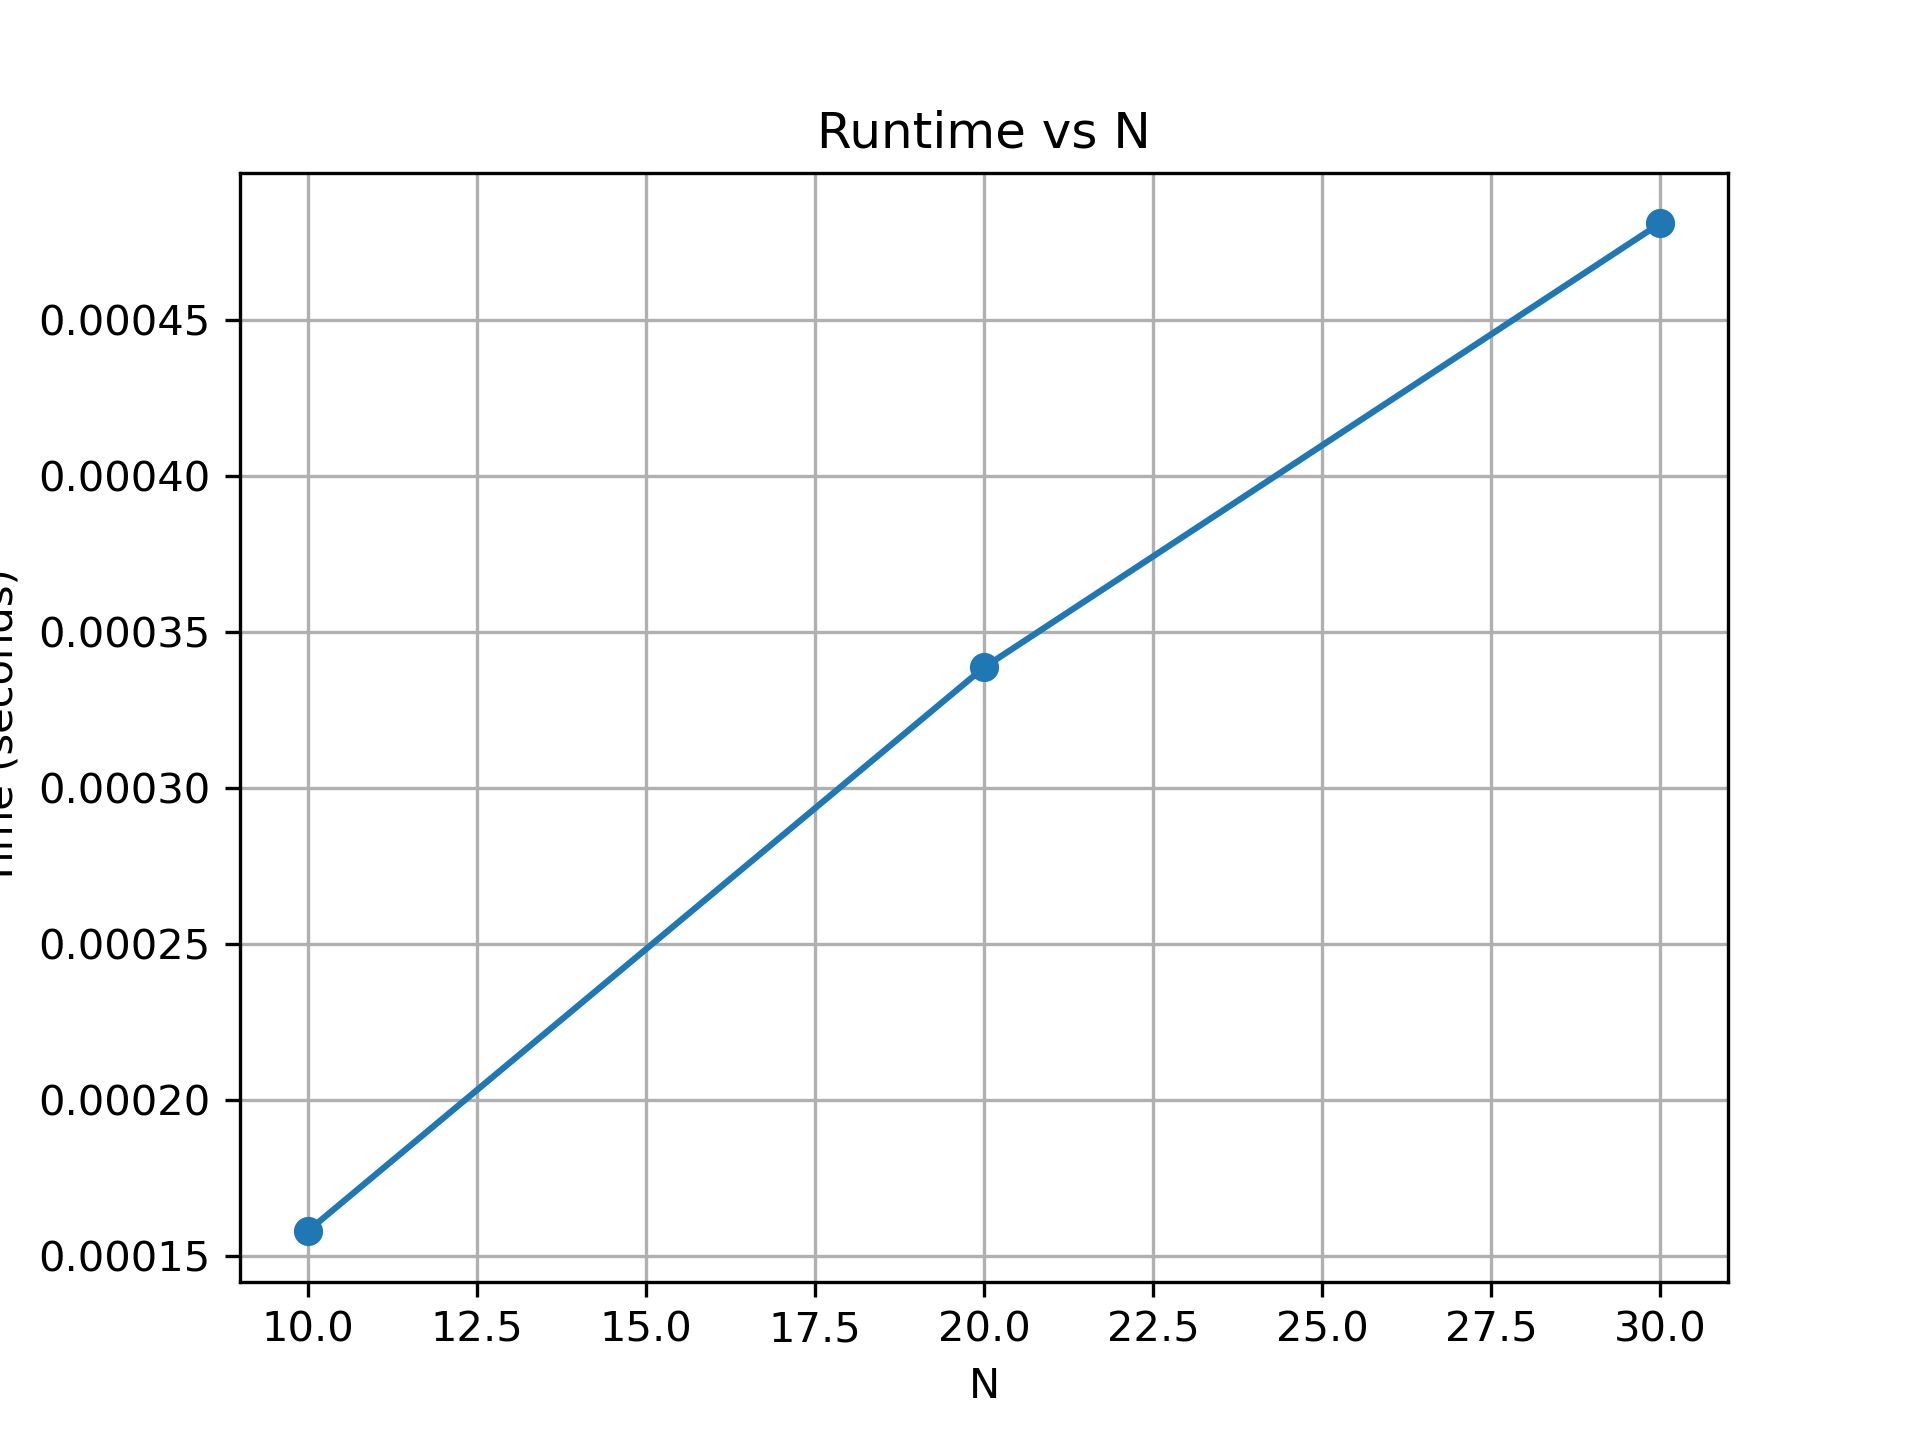
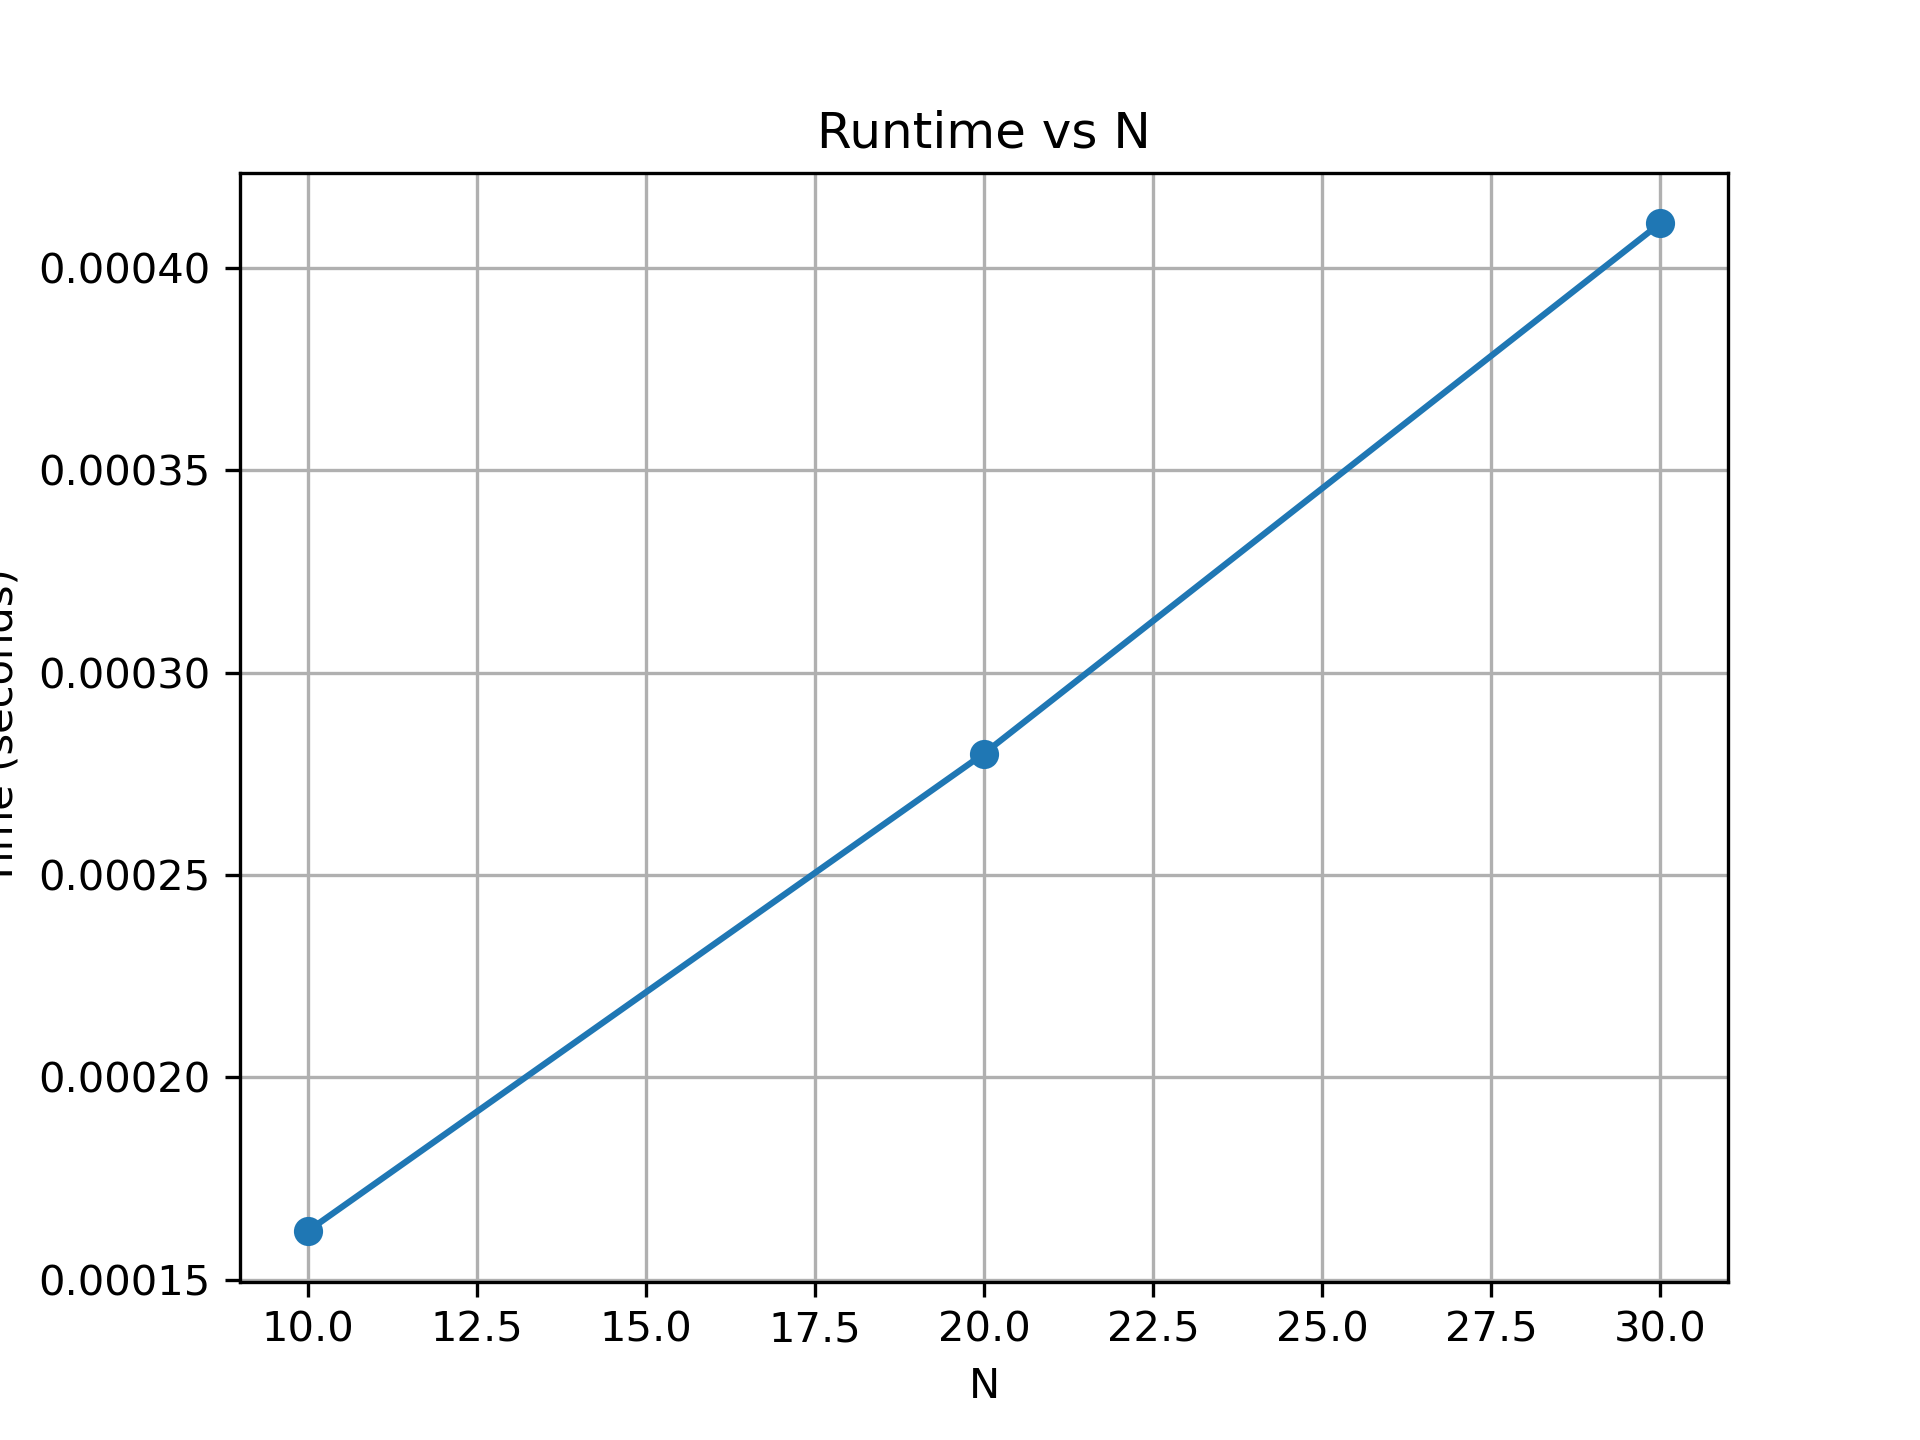
ass-3 modification

diff --git a/Tut_3/Ass3_2.cpp b/Tut_3/Ass3_2.cpp
@@ -1,7 +1,7 @@
 // ME23B002 - Jay Adesara
 
 #include<bits/stdc++.h>
-#include<chrono>
+#include<ctime>
 
 using namespace std;
 
@@ -121,15 +121,6 @@ vector<double> vector_subtract(vector<double> &a,
     Main Program
     Solves the block tridiagonal system described
     in Programming Q2 of the assignment.
-
-    Matrix structure :
-
-        | D1  I   0  ... |
-        | I   D2  I  ... |
-        | 0   I   D3 ... |
-        | ...          DN|
-
-    where each Di is a tridiagonal block (5×5).
 */
 int main()
 {
@@ -145,12 +136,11 @@ int main()
     for(int N:Nvalues)
     {
 
-        // Start timing
-        auto start=chrono::high_resolution_clock::now();
+        // Start timing using clock()
+        clock_t start = clock();
 
         /*
             Step 1 : Construct block matrices Di
-            Each Di is a tridiagonal matrix
         */
         vector<vector<vector<double>>> D(
         N,vector<vector<double>>(Nblk,vector<double>(Nblk,0)));
@@ -170,8 +160,6 @@ int main()
 
         /*
             Step 2 : Construct RHS vectors fi
-            fi =
-            [1 , 1/Nblk , ... , 1/Nblk , 2]
         */
         vector<vector<double>> f(N,vector<double>(Nblk,1.0/Nblk));
 
@@ -184,12 +172,6 @@ int main()
 
         /*
             Step 3 : Forward Block Elimination
-
-            Convert system into upper block triangular form
-
-            D_i^{-1} f_i
-            D_{i+1} = D_{i+1} − D_i^{-1}
-            f_{i+1} = f_{i+1} − D_i^{-1} f_i
         */
         for(int i=0;i<N-1;i++)
         {
@@ -205,7 +187,6 @@ int main()
 
         /*
             Step 4 : Back Substitution
-            Solve for solution blocks xi
         */
         vector<vector<double>> x(N,vector<double>(Nblk,0));
 
@@ -223,16 +204,13 @@ int main()
 
 
         // Stop timing
-        auto end=chrono::high_resolution_clock::now();
+        clock_t end = clock();
 
-        chrono::duration<double> elapsed=end-start;
+        double elapsed = (double)(end-start)/CLOCKS_PER_SEC;
 
 
         /*
             Step 5 : Store data for plotting
-
-            Assignment requires plotting
-            x_{i,j} vs j where i = N/2
         */
         int mid=N/2;
 
@@ -241,14 +219,13 @@ int main()
 
 
         /*
-            Step 6 : Store runtime for
-            Time vs N plot
+            Step 6 : Store runtime for Time vs N plot
         */
-        timeFile<<N<<" "<<elapsed.count()<<endl;
+        timeFile<<N<<" "<<elapsed<<endl;
 
 
-        // Print runtime in terminal
-        cout<<"N = "<<N<<"  Time = "<<elapsed.count()<<endl;
+        // Print runtime
+        cout<<"N = "<<N<<"  Time = "<<elapsed<<endl;
 
     }
 
